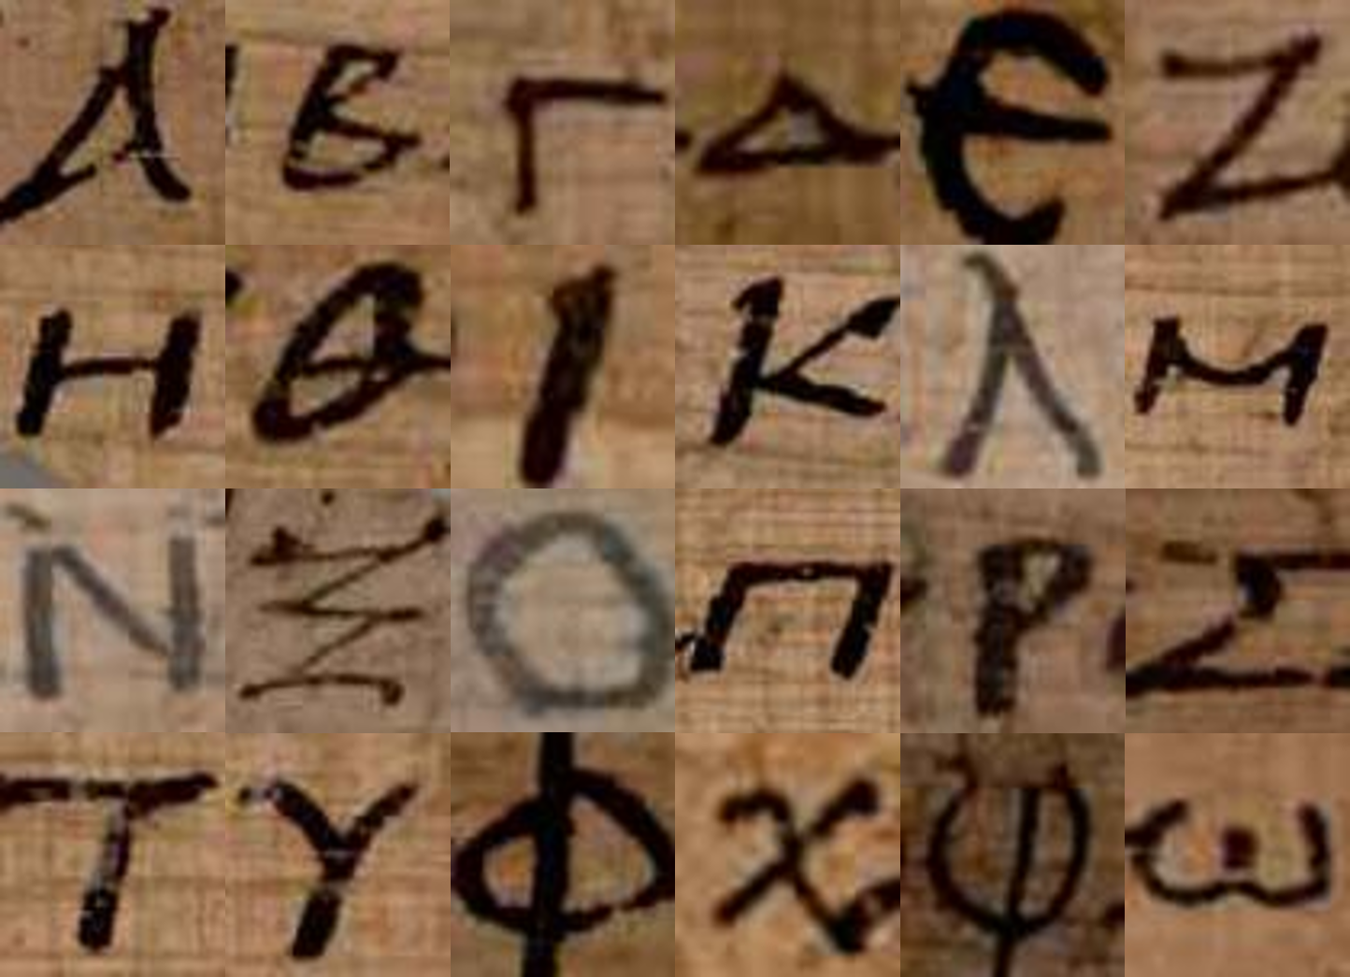
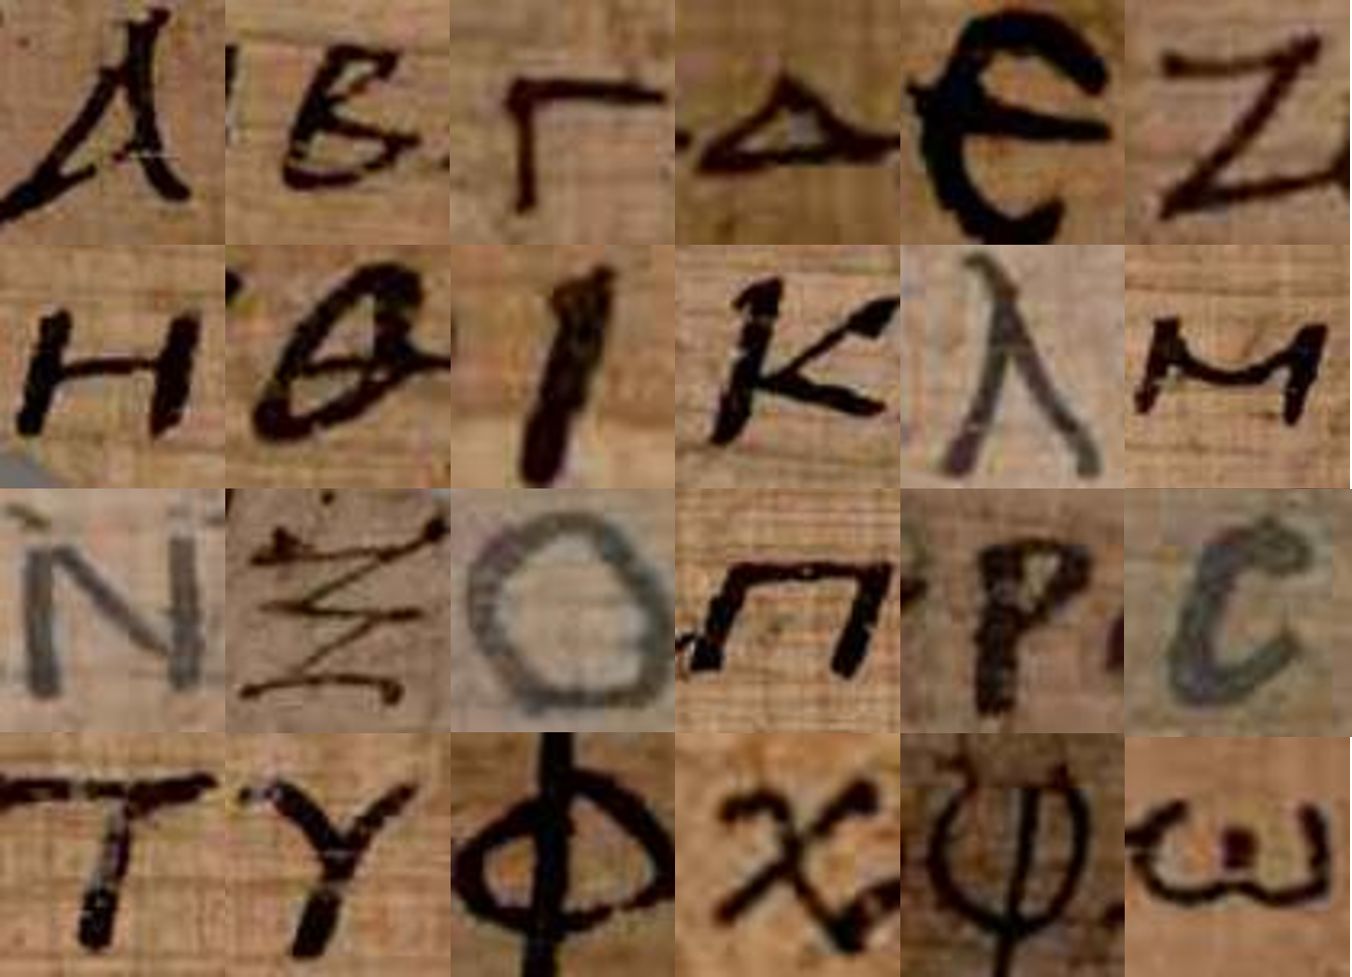
correcting alpubv2 image (includes lunate sigma). added links to body text, updated body text.

Changed region(s): [[0.8089, 0.0, 1.0, 1.0], [0.84, 0.3378, 0.8711, 0.3992]]

diff --git a/_pages/home.md b/_pages/home.md
@@ -15,7 +15,7 @@ focuses on the field of papyrology, but is broadly applicable to computer vision
 <div class="container">
 <div class="row">
 <center>
-<img src="{{ site.url }}{{ site.baseurl }}/images/transkrybe.png" width="100%"/><br/>
+<img src="{{ site.url }}{{ site.baseurl }}/images/transkrybe.png" width="75%"/><br/>
 AI-assisted transcription of ancient Greek papyrus fragment. <br/>
 </center>
 
@@ -29,4 +29,4 @@ AI-assisted transcription of ancient Greek papyrus fragment. <br/>
 
 ### About my work
 
-I am the proud creator of the AL-PUB dataset, a large-scale, crowdsourced image dataset containing Greek characters on ancient papyri. This dataset is available on Kaggle and has been used in several deep learning based research projects. Other research projects include blockchain and smart contracts for digital edition management, as well as transfer learning and generative AI. I am also interested in the application of AI and Machine Learning to other fields such as physics, chemistry, and astronomy. Additional interests include quantum computing & HPC clusters. Please check out AL-PUB, my computational projects, and social media pages at the links on the right. 
+I am the proud creator of the <a href="https://www.kaggle.com/datasets/miswindall/al-pub-v2">AL-PUBv2</a> dataset, a large-scale, crowdsourced image dataset containing Greek characters on ancient papyrus. This dataset is available on Kaggle and has been used in several deep learning research projects. Additional research projects include blockchain and smart contracts for digital edition management, as well as transfer learning and generative AI. I am also interested in the application of AI and Machine Learning to other fields such as physics, chemistry, and astronomy. Other interests include quantum computing & HPC clusters. Please check out <a href="https://www.kaggle.com/datasets/miswindall/al-pub-v2">AL-PUBv2</a>, as well as my computational <a href="projects">projects</a>, and social media pages. 
